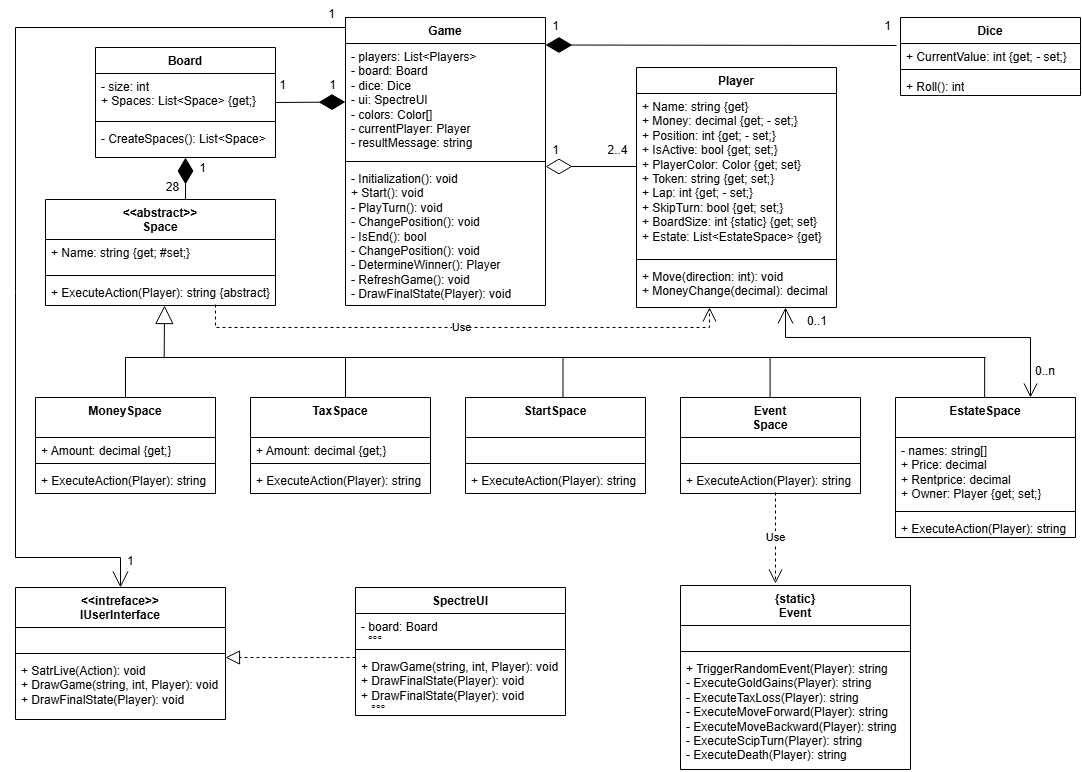
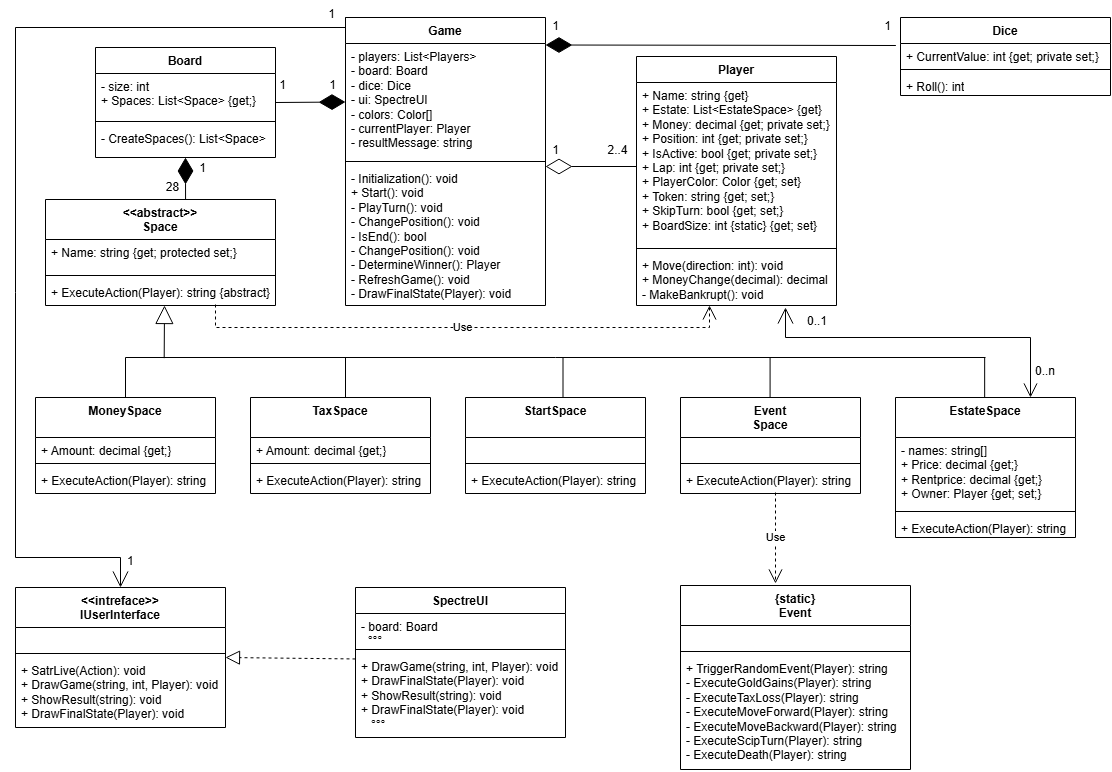
Neue UML

diff --git a/Monopoly/Program.cs b/Monopoly/Program.cs
@@ -5,16 +5,17 @@ internal class Program
     static void Main(string[] args)
     {
         int size = 28;
+        int playerCount = 4; ;
         Player.BoardSize = size;
-        List<Player> players = CreatePlayers();
+        List<Player> players = CreatePlayers(playerCount);
         Game game = new Game(players, size);
         game.Start();
     }
 
-    private static List<Player> CreatePlayers()
+    private static List<Player> CreatePlayers(int playerCount)
     {
         var players = new List<Player>();
-        for (int i = 0; i < 4; i++)
+        for (int i = 0; i < playerCount; i++)
         {
             Console.WriteLine($"Geben Sie den Namen der {i + 1}. Spielers ein");
             players.Add(new Player(Console.ReadLine()!));

diff --git a/Monopoly/Game.cs b/Monopoly/Game.cs
@@ -62,7 +62,7 @@ public class Game
 
 
 
-    public void PlayTurn()
+    private void PlayTurn()
     {
         Console.ReadKey(true);
         int steps = dice.Roll();
@@ -152,6 +152,7 @@ public class Game
     {
         ui.DrawGame(resultMessage, dice.CurrentValue, currentPlayer);
     }
+
     private void DrawFinalState(Player player)
     {
         ui.DrawFinalState(player);
